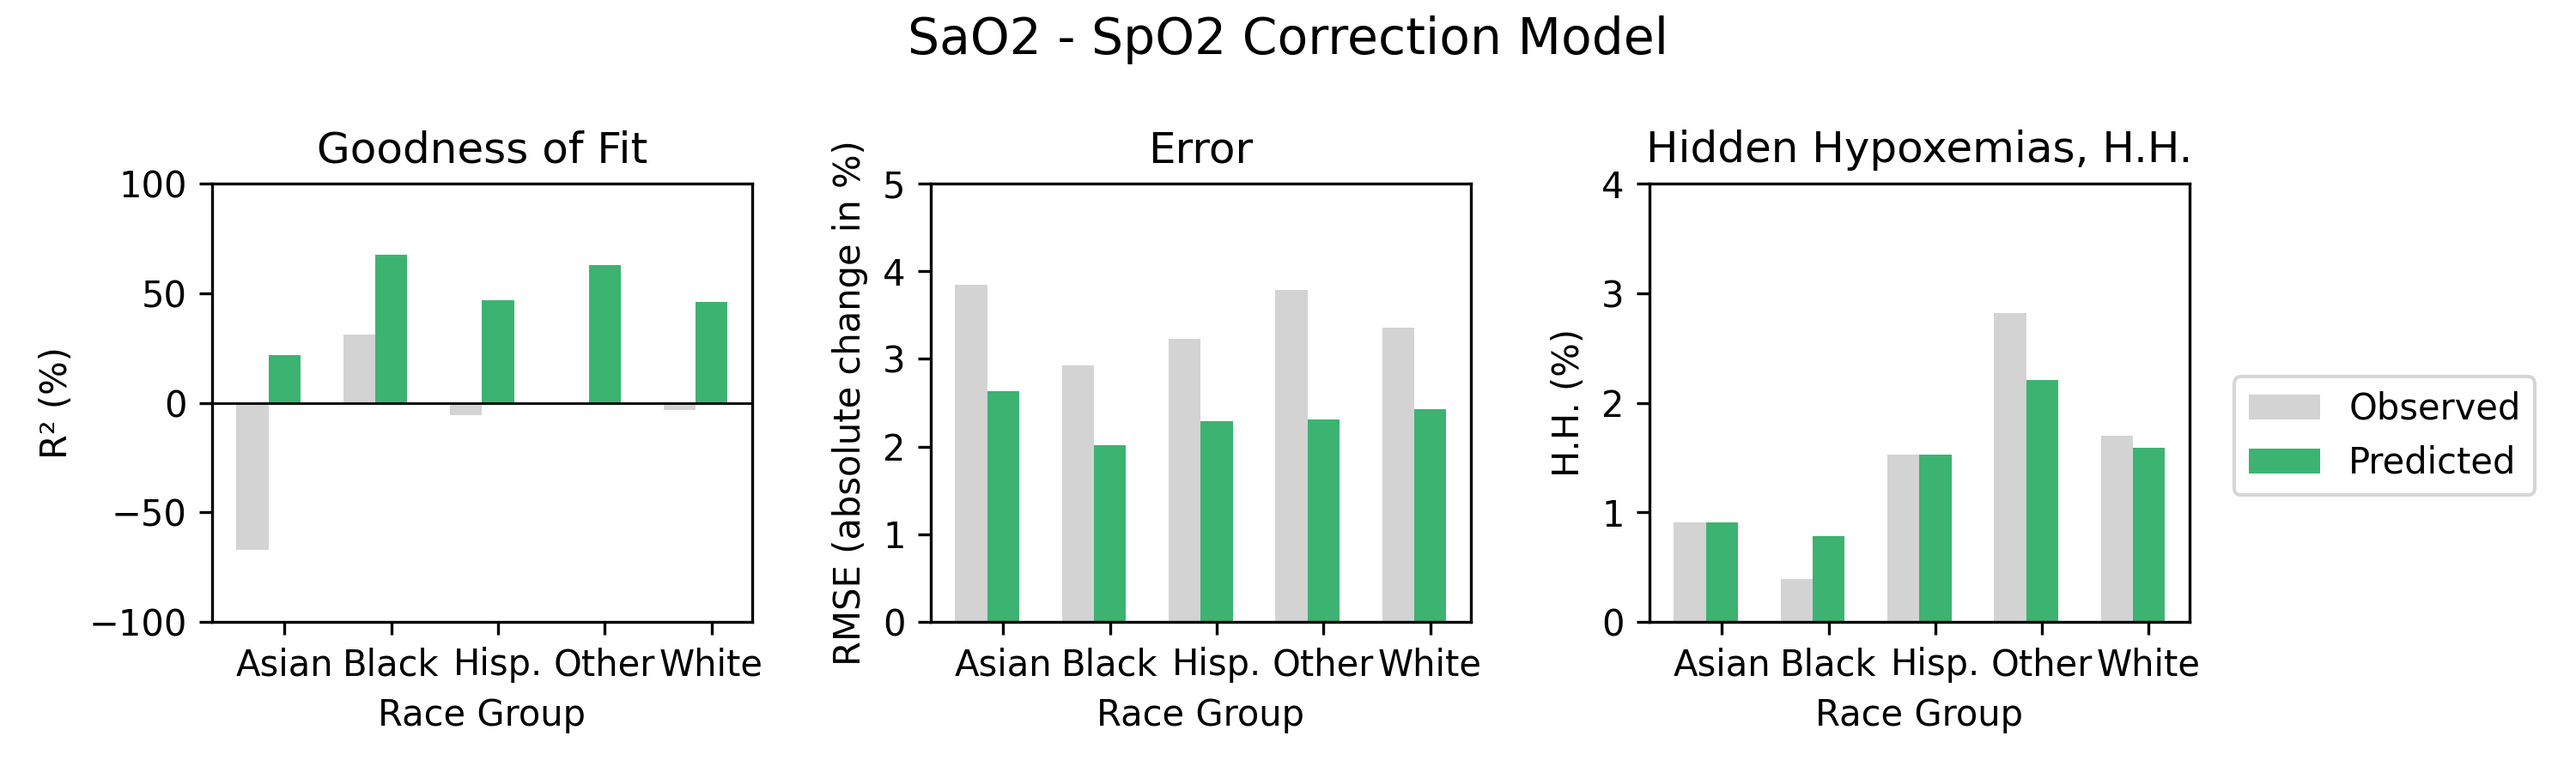
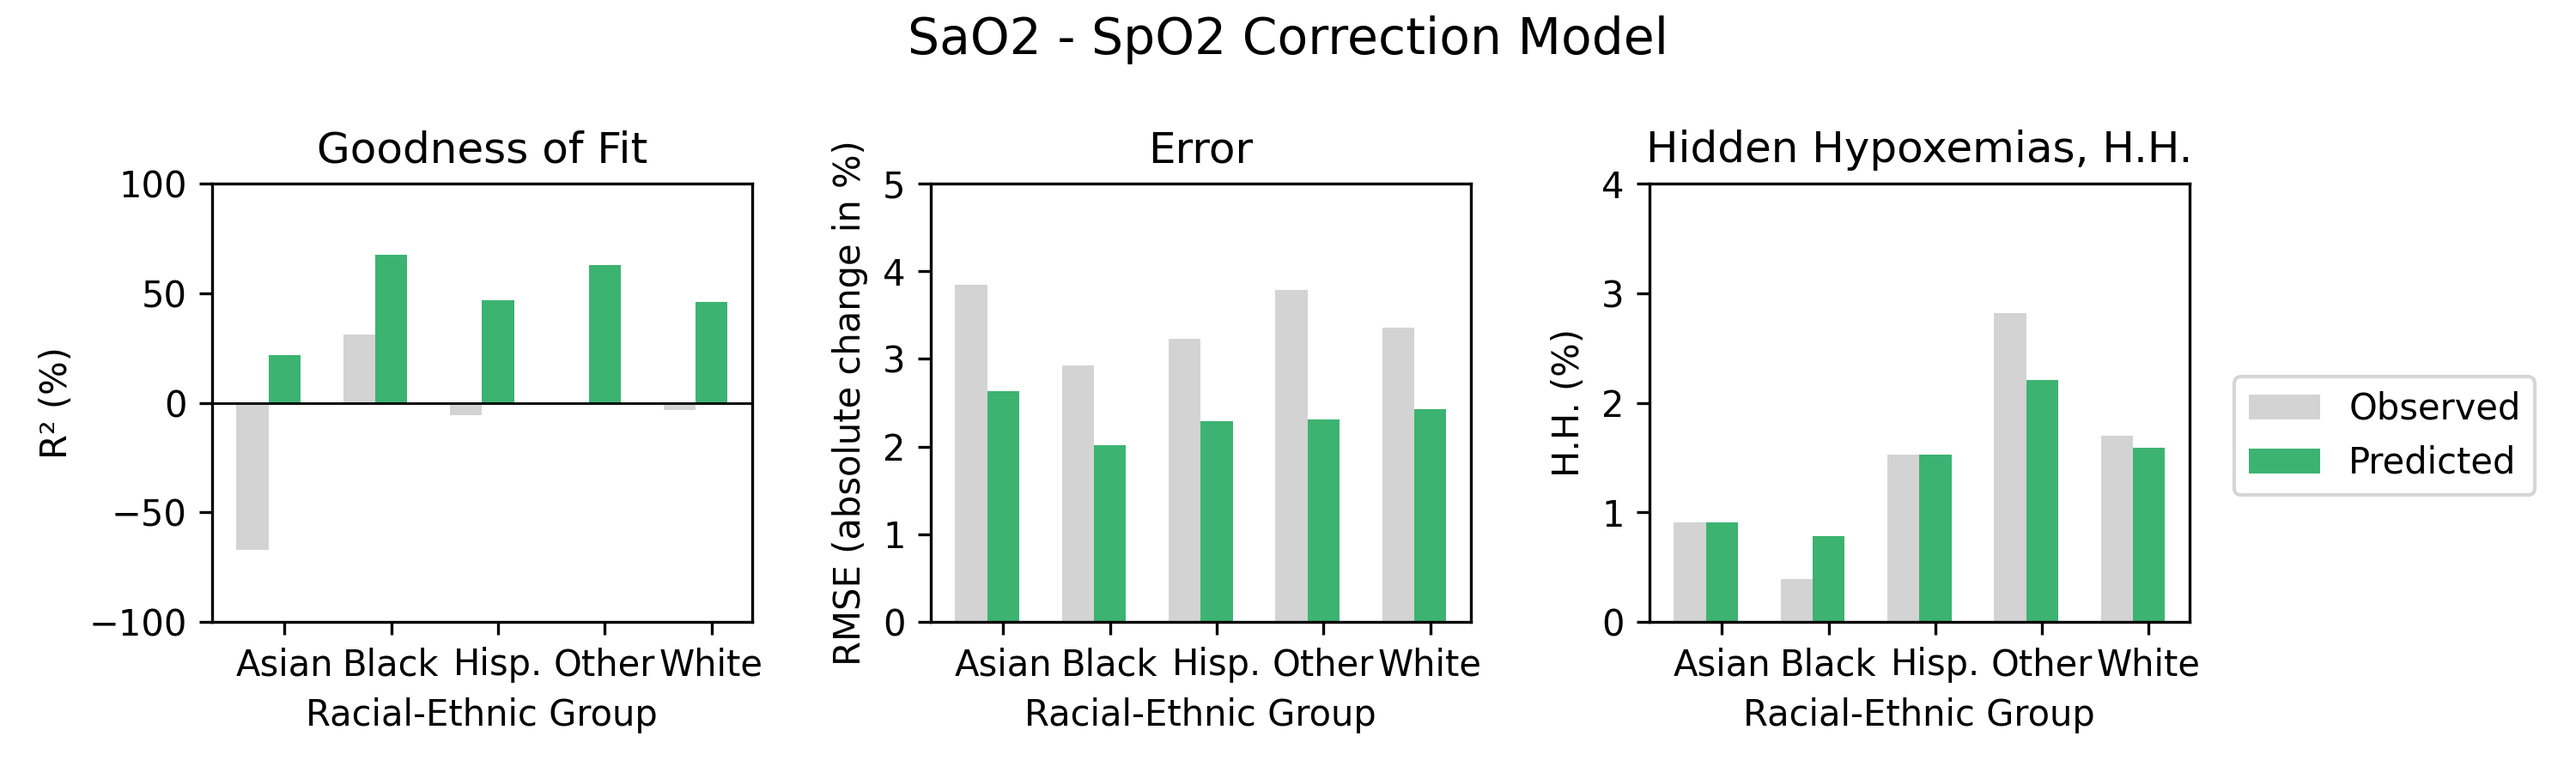
Fix plot x label

Changed region(s): [[0.682, 0.9022, 0.806, 0.9644], [0.403, 0.9022, 0.527, 0.9644], [0.124, 0.9022, 0.248, 0.9644]]

diff --git a/src/9_plot_results.py b/src/9_plot_results.py
@@ -25,7 +25,7 @@ def plot_results(model_name):
 
     axs[0].set_title('Goodness of Fit')
     axs[0].set_xticks(xx, data.columns)
-    axs[0].set_xlabel("Race Group")
+    axs[0].set_xlabel("Racial-Ethnic Group")
     axs[0].set_ylabel('R² (%)')
     axs[0].set_ylim([-100, 100])
     axs[0].axhline(y=0, color='k', linewidth=.7)
@@ -42,7 +42,7 @@ def plot_results(model_name):
 
     axs[1].set_title('Error')
     axs[1].set_xticks(xx, data.columns)
-    axs[1].set_xlabel("Race Group")
+    axs[1].set_xlabel("Racial-Ethnic Group")
     axs[1].set_ylabel('RMSE (absolute change in %)')
     axs[1].set_ylim([0, 5])
     plt.xticks(xx, data.columns)
@@ -59,7 +59,7 @@ def plot_results(model_name):
 
     axs[2].set_title('Hidden Hypoxemias, H.H.')
     axs[2].set_xticks(xx, data.columns)
-    axs[2].set_xlabel("Race Group")
+    axs[2].set_xlabel("Racial-Ethnic Group")
     axs[2].set_ylabel('H.H. (%)')
     axs[2].set_ylim([0, 4])
     plt.xticks(xx, data.columns)
